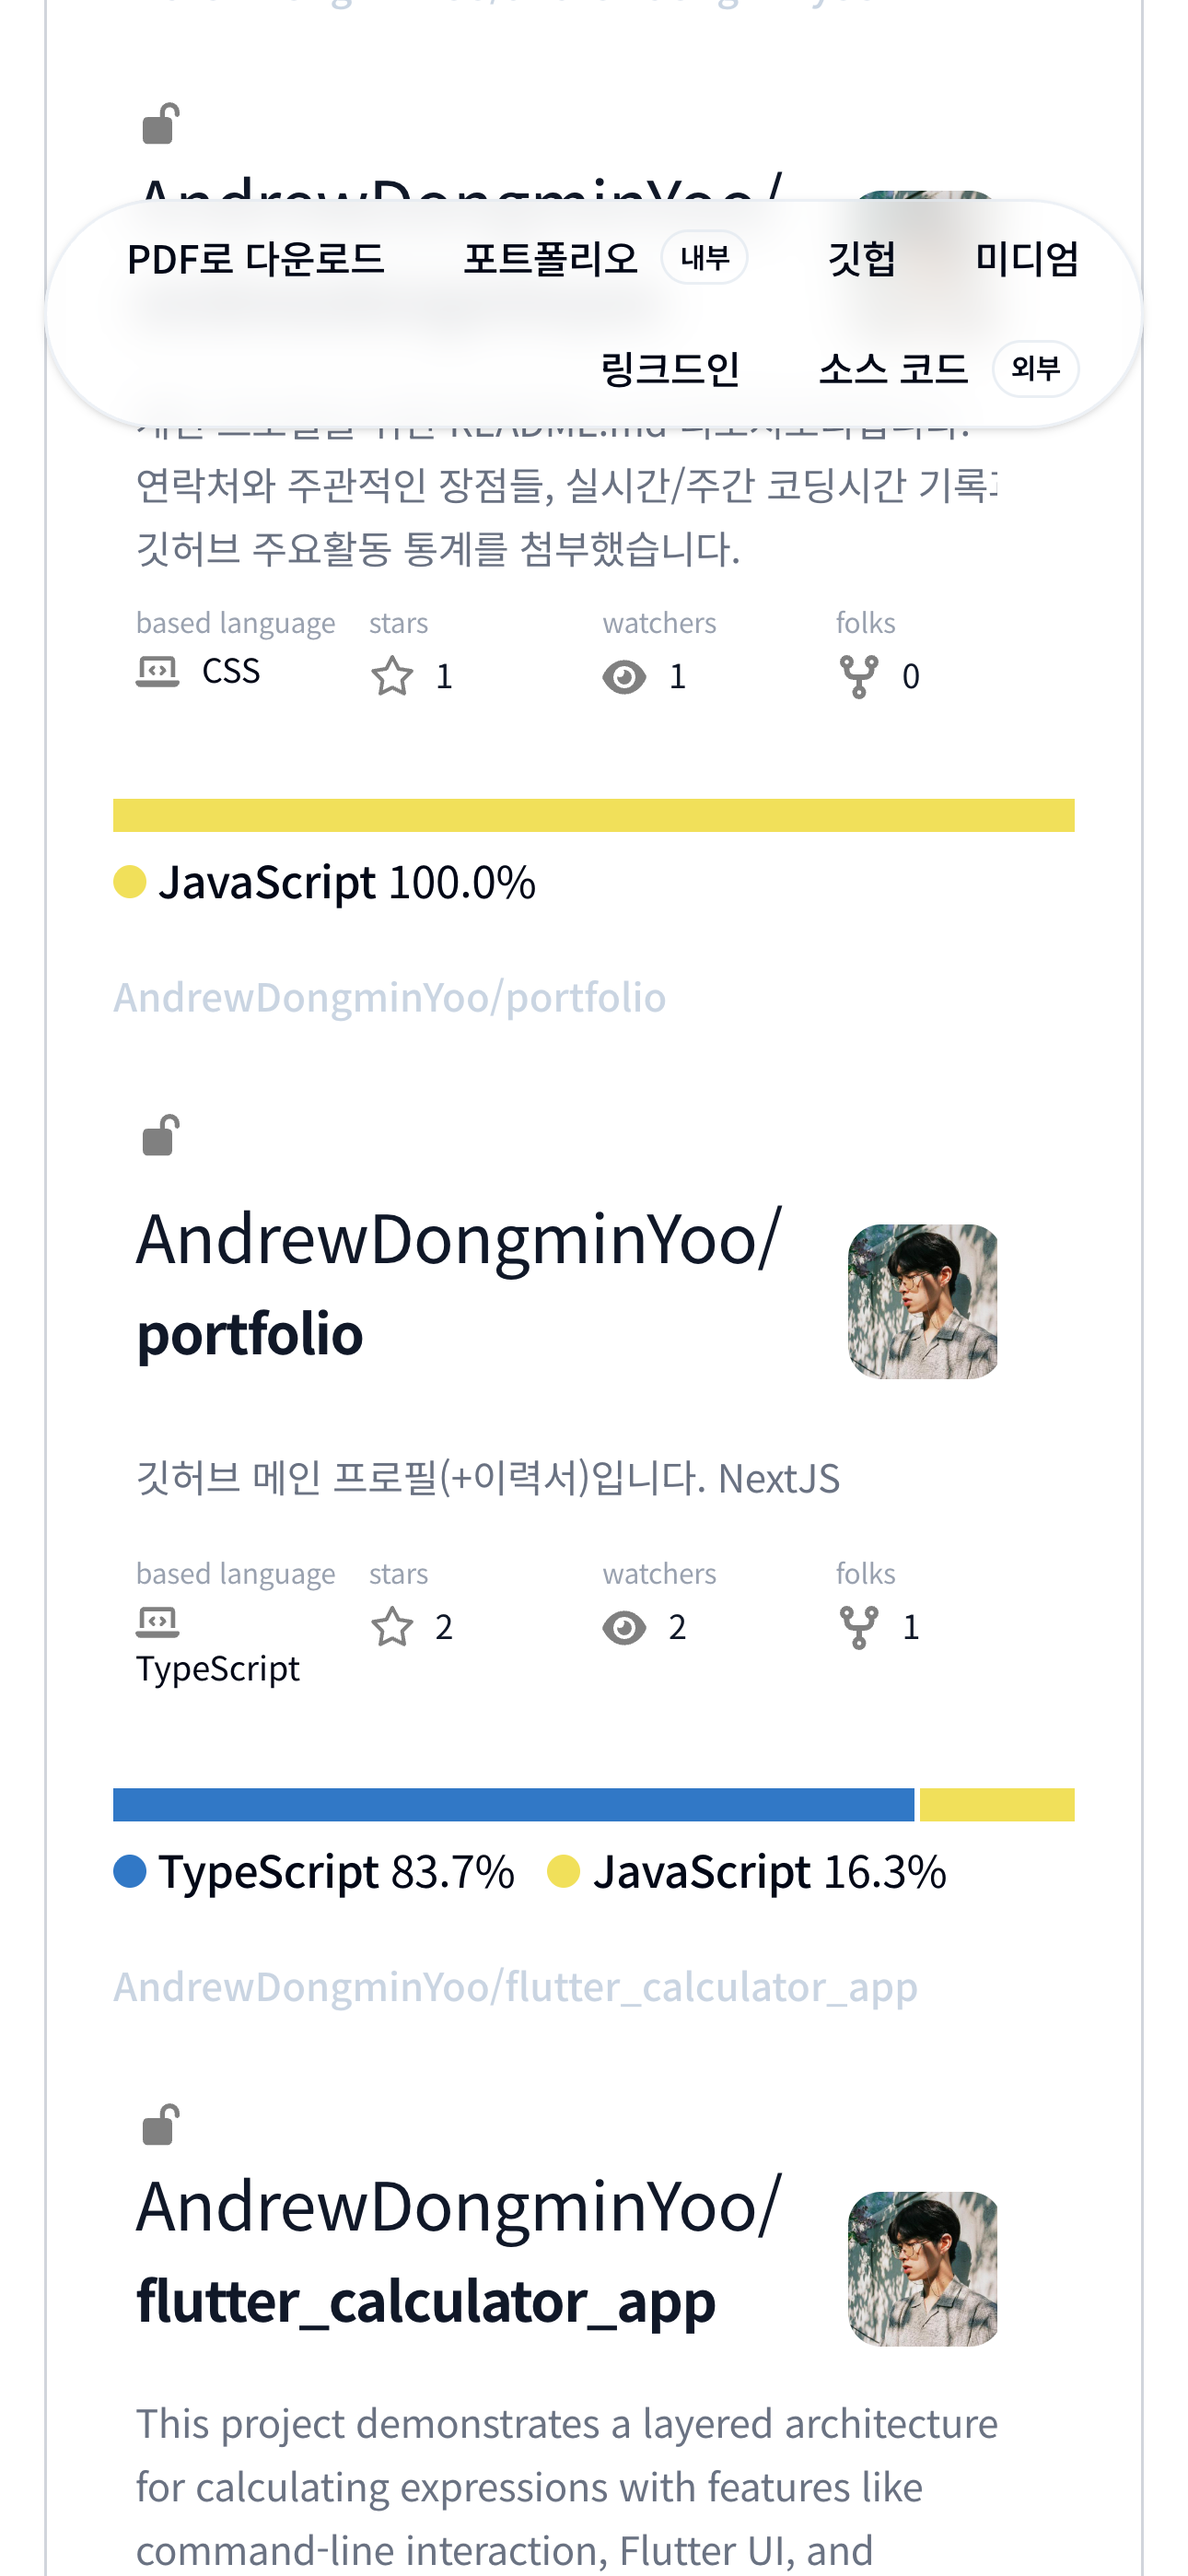
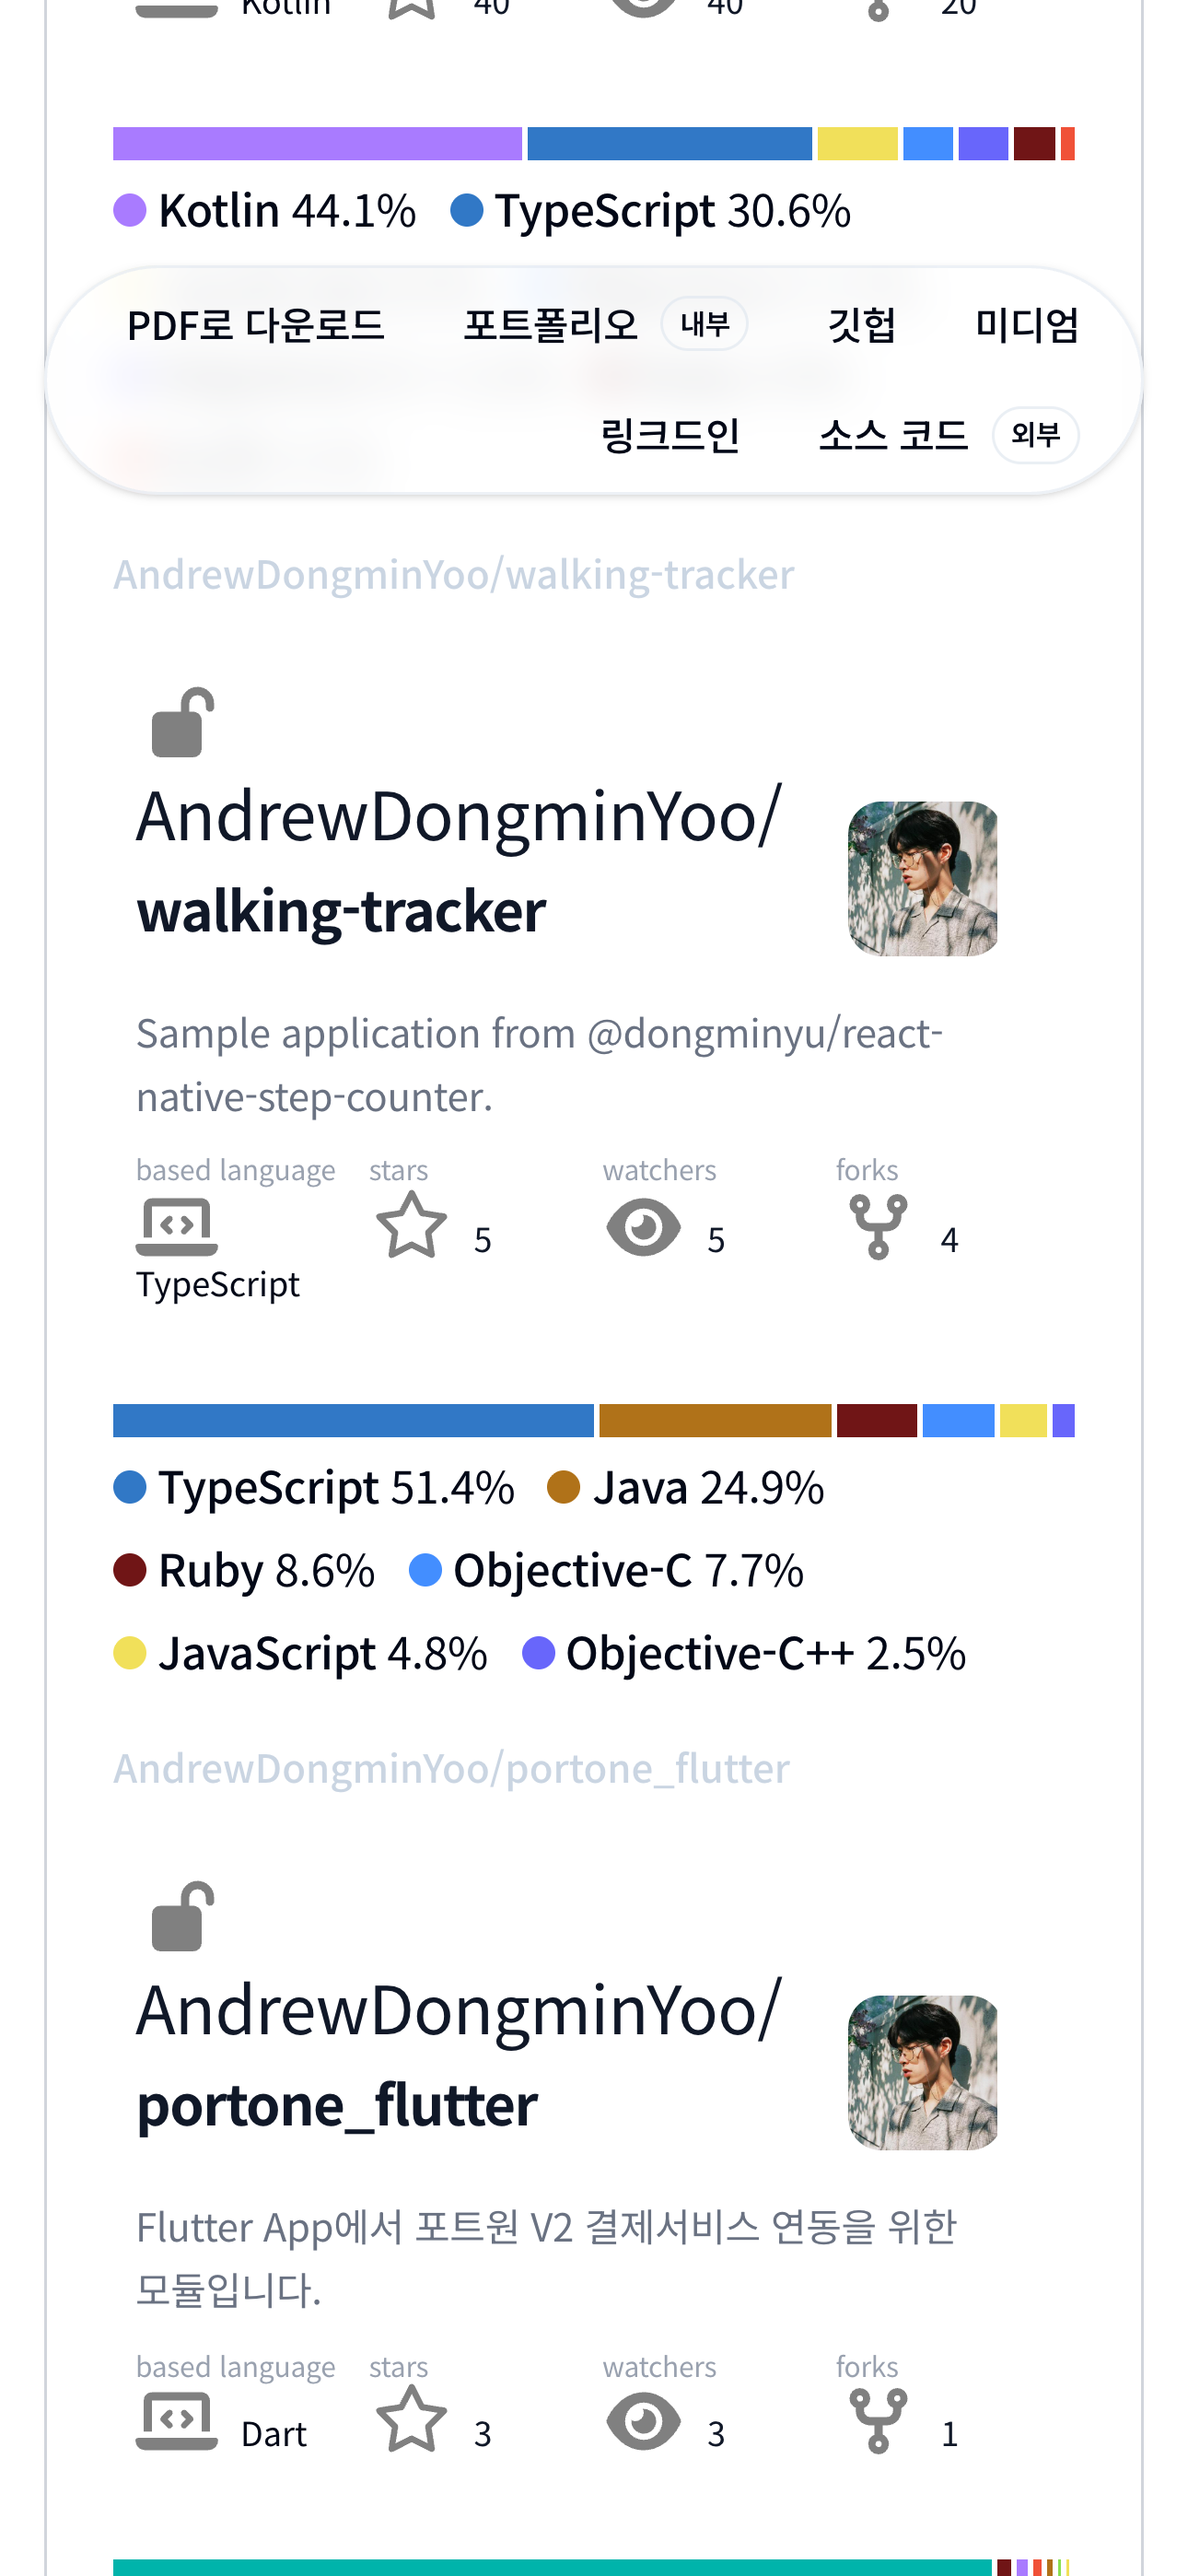
style: refactors period display and adds soft wrapping option
Updates the default date format for `DateElement` to `yyyy.MM.`.
Revises the duration calculation logic in the `Period` component to ensure duration components are displayed in correct order (years, months, weeks, days).
Introduces a `softWrap` prop to `Period` to conditionally insert a line break between the end date and the duration string, improving readability on smaller screens or when space is limited.
Applies this `softWrap` behavior to the experience period displays.
Adjusts CSS line height for period elements to properly accommodate the new wrapping behavior.

Changed region(s): [[0.093, 0.0, 0.8992, 0.6534], [0.093, 0.6845, 0.8992, 1.0], [0.7132, 0.2489, 0.7442, 0.28]]

diff --git a/src/components/period.tsx b/src/components/period.tsx
@@ -4,7 +4,7 @@ import { intervalToDuration } from 'date-fns/intervalToDuration';
 import { isValid } from 'date-fns/isValid';
 import { parseISO } from 'date-fns/parseISO';
 
-const DateElement = ({ dateTime, fmt = 'yy/MM' }: { dateTime: string; fmt?: string }) => {
+const DateElement = ({ dateTime, fmt = 'yyyy.MM.' }: { dateTime: string; fmt?: string }) => {
   const date = parseISO(dateTime);
   if (isValid(date)) {
     return <time dateTime={dateTime}>{format(date, fmt)}</time>;
@@ -18,27 +18,31 @@ export default function Period({
   endAt,
   className,
   datesOnly,
+  softWrap,
 }: {
   startAt: string;
   endAt?: string;
   className?: string;
   datesOnly?: boolean;
+  softWrap?: boolean;
 }) {
   const start = parseISO(startAt);
   const now = new Date();
   const end = endAt && isValid(parseISO(endAt)) ? parseISO(endAt) : now;
   const dur = intervalToDuration({ start, end });
-  let period = '';
-  if (dur.days && dur.days > 0) period = `${dur.days}일`;
-  if (dur.weeks && dur.weeks > 0) period = `${dur.weeks}주` + period;
-  if (dur.months && dur.months > 0) period = `${dur.months}개월` + period;
-  if (dur.years && dur.years > 0) period = `${dur.years}년` + period;
+  const periods = [];
+  if (dur.days && dur.days > 0) periods.push(`${dur.days}일`);
+  if (dur.weeks && dur.weeks > 0) periods.push(`${dur.weeks}주`);
+  if (dur.months && dur.months > 0) periods.push(`${dur.months}개월`);
+  if (dur.years && dur.years > 0) periods.push(`${dur.years}년`);
+  const period = periods.reverse().join(' ');
   return (
     <span className={className}>
       <DateElement dateTime={formatISO(start)} />
       {' ~ '}
       <DateElement dateTime={formatISO(end)} />
-      {!datesOnly && period && ` (${period})`}
+      {softWrap ? <br /> : ' '}
+      {!datesOnly && period && `(${period})`}
     </span>
   );
 }

diff --git a/src/components/layout/menu.tsx b/src/components/layout/menu.tsx
@@ -23,7 +23,7 @@ const externalTriggerClassName =
 
 export default function MenuButtons() {
   return (
-    <div className='fixed top-7 right-0 left-0 z-50 flex justify-end px-4 md:right-14 md:left-auto md:px-0 print:hidden'>
+    <div className='fixed top-20 right-0 left-0 z-50 flex justify-end px-4 md:top-7 md:right-14 md:left-auto md:px-0 print:hidden'>
       <NavigationMenu viewport={false} className='items-center'>
         <NavigationMenuList className='border-border/60 bg-background/80 flex-wrap justify-end gap-2 rounded-full border px-3 py-1 shadow-sm backdrop-blur md:flex-nowrap'>
           <NavigationMenuItem>

diff --git a/src/features/posts/experience.tsx b/src/features/posts/experience.tsx
@@ -13,7 +13,7 @@ export default function ExperienceElement({ experience }: { experience: Experien
     <div className='resume_card_item'>
       <div className='resume_card_left'>
         <h4 className='resume_card_item_period'>
-          <Period startAt={startAt} endAt={endAt} className='period' />
+          <Period startAt={startAt} endAt={endAt} className='period' softWrap={true} />
         </h4>
       </div>
       <div className='resume_card_right'>

diff --git a/src/globals.css b/src/globals.css
@@ -149,7 +149,7 @@
   @apply flex flex-nowrap justify-start leading-6 text-slate-600;
 
   & .period {
-    @apply ml-px text-xs;
+    @apply ml-px text-xs leading-5;
   }
 
   @media (max-width: 575px) {
@@ -163,7 +163,7 @@
 
 @utility period {
   .resume_card_item_period & {
-    @apply ml-px text-xs;
+    @apply ml-px text-xs leading-5;
   }
 
   @media (max-width: 575px) {
